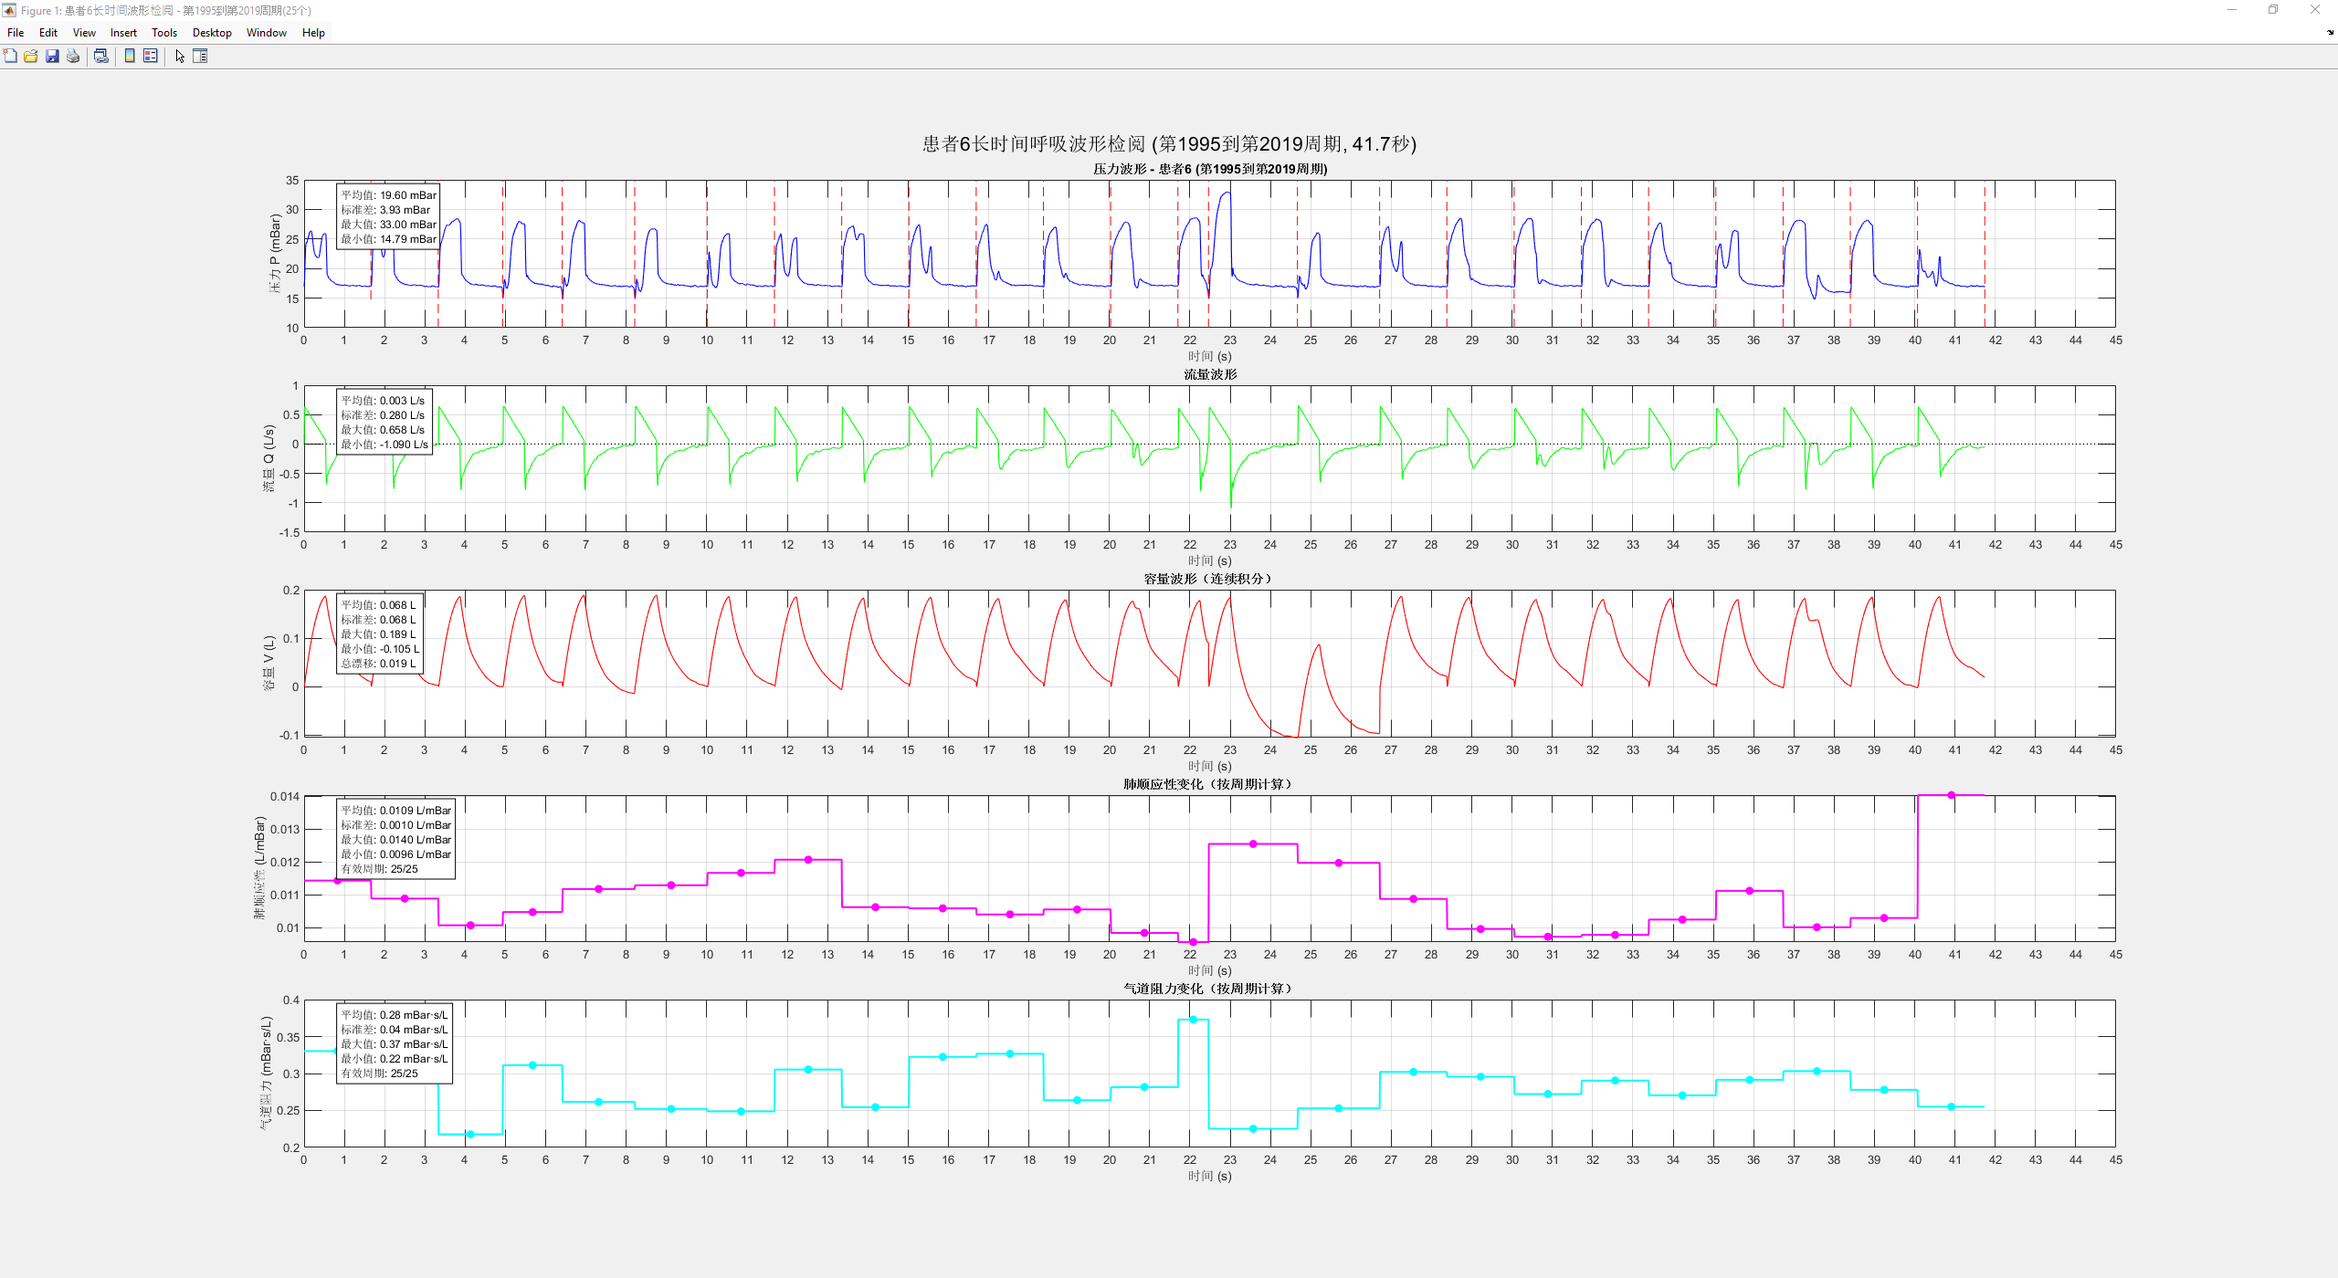
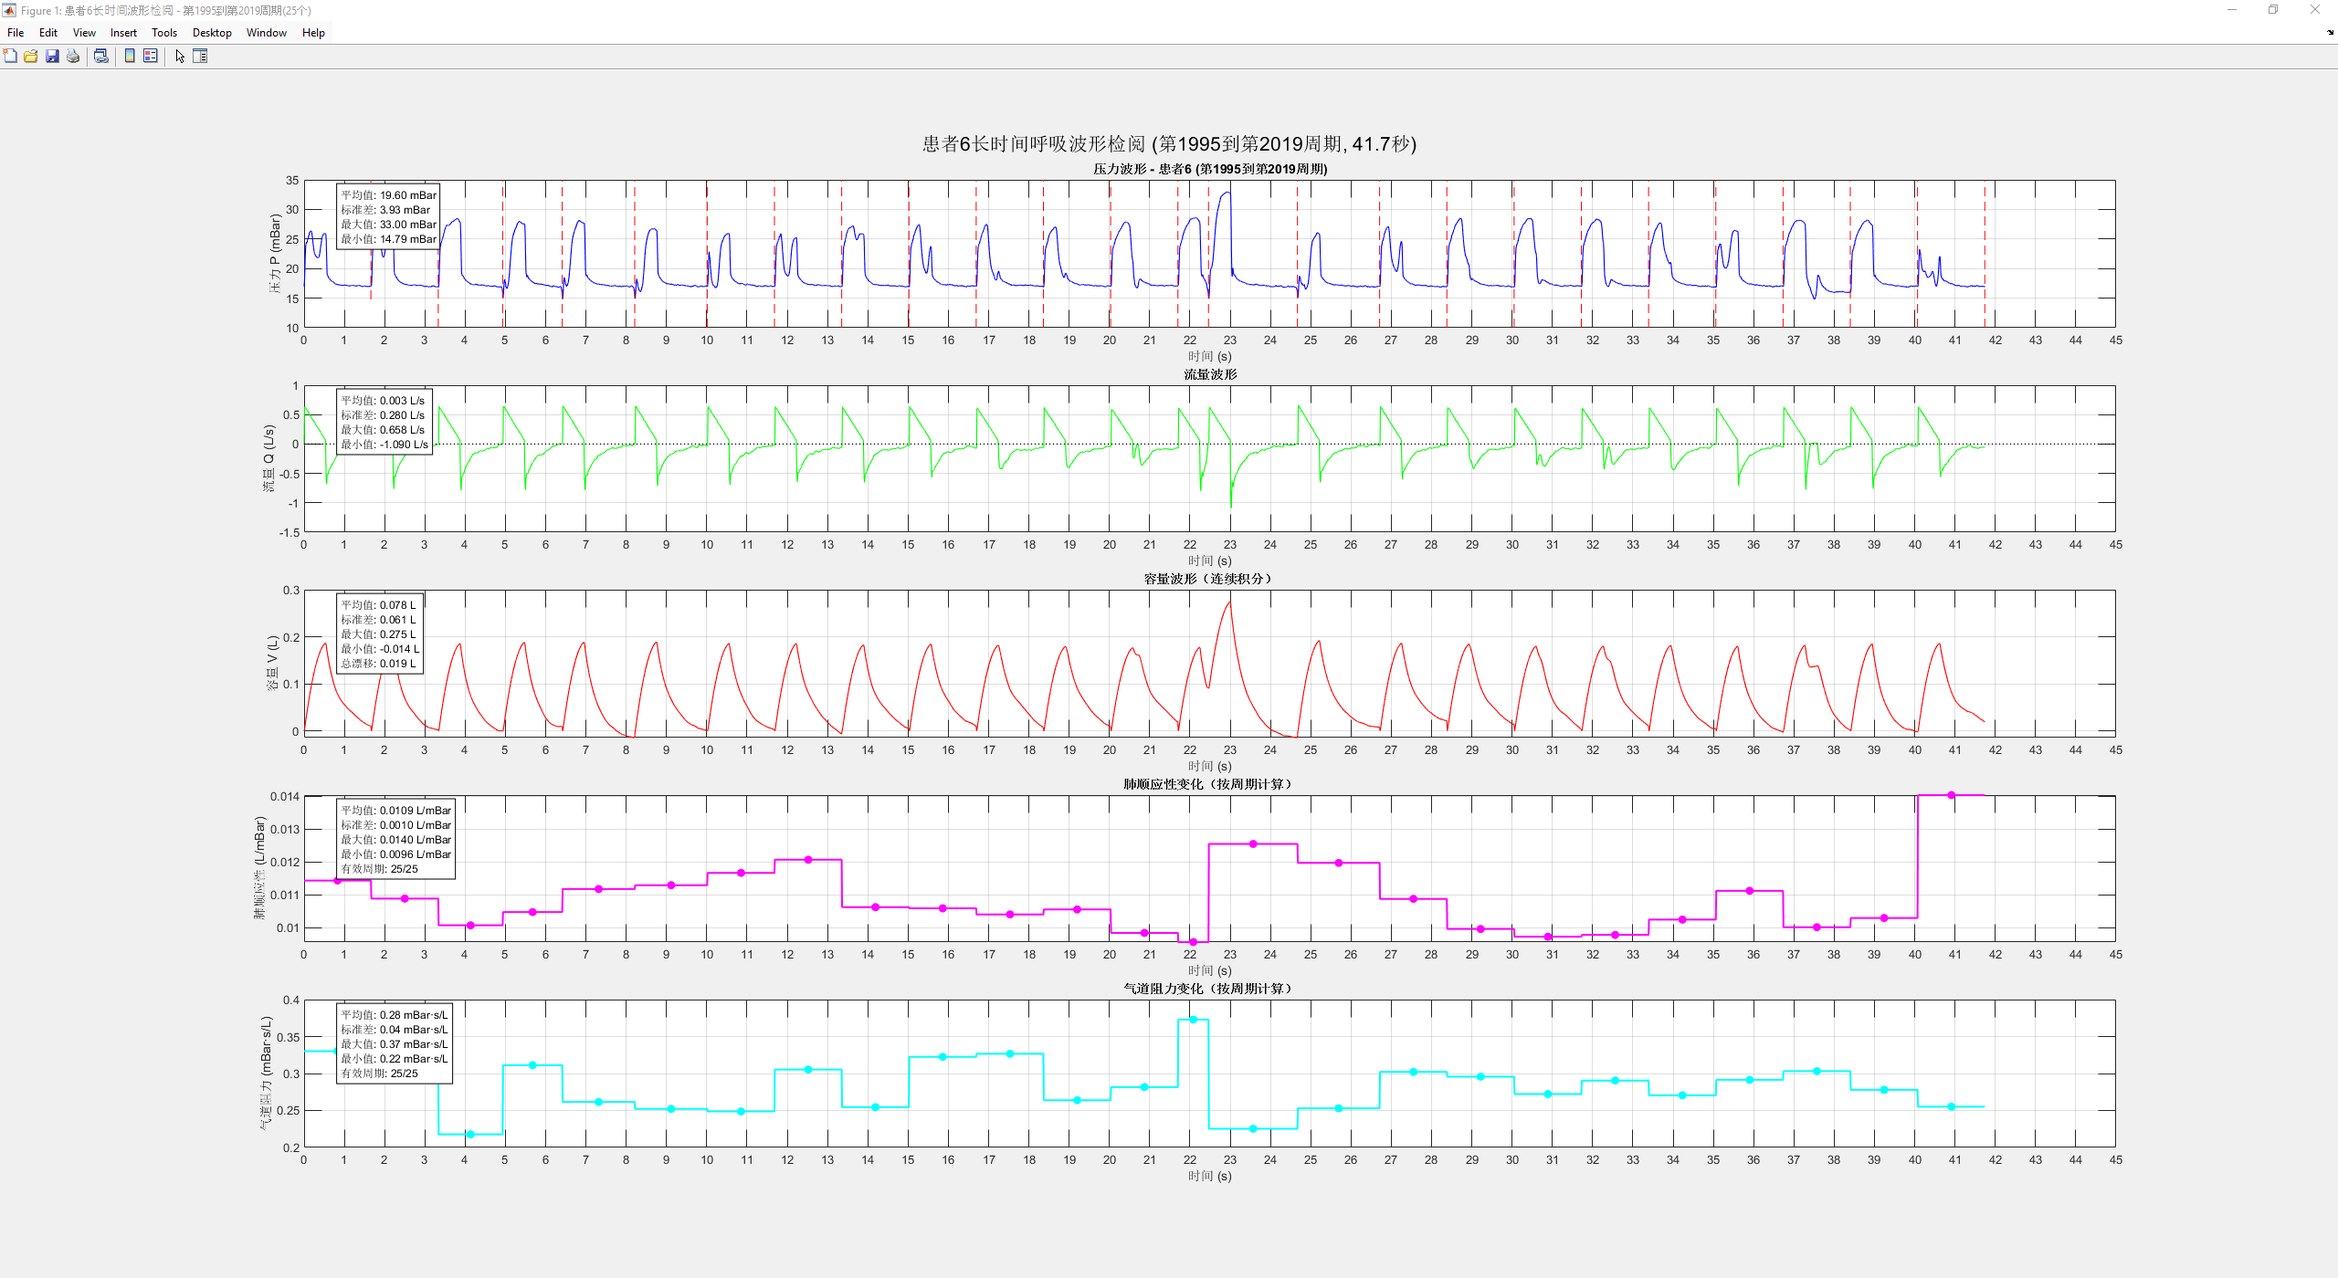
Site updated: 2025-06-19 19:36:18

Changed region(s): [[0.125, 0.4914, 0.8438, 0.5836]]

diff --git a/2025/06/19/工作记录：Patient-7-特征/index.html b/2025/06/19/工作记录：Patient-7-特征/index.html
@@ -13,7 +13,7 @@
 
 
 
-<title>工作记录：Patient 6 特征 | Yartin</title>
+<title>工作记录：Patient 7 特征 | Yartin</title>
 
 
 
@@ -203,7 +203,7 @@
     
     <article class="post-wrap">
         <header class="post-header">
-            <h1 class="post-title">工作记录：Patient 6 特征</h1>
+            <h1 class="post-title">工作记录：Patient 7 特征</h1>
             
                 <div class="post-meta">
                     
@@ -212,7 +212,7 @@
 
                     
                         <span class="post-time">
-                        Date: <a href="#">June 19, 2025&nbsp;&nbsp;9:35:23</a>
+                        Date: <a href="#">June 19, 2025&nbsp;&nbsp;18:17:00</a>
                         </span>
                     
                     
@@ -230,31 +230,30 @@
         </header>
 
         <div class="post-content">
-            <blockquote>
-<p>前述章节插图中容量与流量单位有误，仅作趋势上的特征分析。从本节开始单位错误已修复。</p>
-</blockquote>
-<h2 id="呼吸机控制通气模式"><a href="#呼吸机控制通气模式" class="headerlink" title="呼吸机控制通气模式"></a>呼吸机控制通气模式</h2><p>PC-SIMV</p>
+            <h2 id="呼吸机控制通气模式"><a href="#呼吸机控制通气模式" class="headerlink" title="呼吸机控制通气模式"></a>呼吸机控制通气模式</h2><p>SPN-CPAP</p>
 <hr>
-<h2 id="ASYNC-特征"><a href="#ASYNC-特征" class="headerlink" title="ASYNC 特征"></a>ASYNC 特征</h2><p>常见模式特征与 <a href="../2025/06/17/%E5%B7%A5%E4%BD%9C%E8%AE%B0%E5%BD%95%EF%BC%9APatient-4-%E7%89%B9%E5%BE%81/">Patient 4</a> 特征完全一致，不再重复说明。<br>典型波形如下：</p>
+<h2 id="ASYNC-特征"><a href="#ASYNC-特征" class="headerlink" title="ASYNC 特征"></a>ASYNC 特征</h2><p>虽标记为 SPN-CPAP 模式，但实际患者自主呼吸状态不佳，不稳定，从波形角度看，应当是从 VC 模式调整为 SPN 模式关注患者状态，但效果不佳后重新调整为 PC 模式。</p>
+<p>常见呼气末期对抗和双重触发等与 <a href="../../../06/16/%E5%B7%A5%E4%BD%9C%E8%AE%B0%E5%BD%95%EF%BC%9APatient-1-%E7%89%B9%E5%BE%81/#%E5%A4%9A%E9%87%8D%E8%A7%A6%E5%8F%91">Patient 1</a> 特征一致。</p>
 <hr>
-<h3 id="自主呼吸吸气段异常"><a href="#自主呼吸吸气段异常" class="headerlink" title="自主呼吸吸气段异常"></a>自主呼吸吸气段异常</h3><p><img src="/2025/06/19/%E5%B7%A5%E4%BD%9C%E8%AE%B0%E5%BD%95%EF%BC%9APatient-6-%E7%89%B9%E5%BE%81/%E8%87%AA%E4%B8%BB%E5%91%BC%E5%90%B8%E5%90%B8%E6%B0%94%E6%AE%B5%E5%BC%82%E5%B8%B81.png"><br><img src="/2025/06/19/%E5%B7%A5%E4%BD%9C%E8%AE%B0%E5%BD%95%EF%BC%9APatient-6-%E7%89%B9%E5%BE%81/%E8%87%AA%E4%B8%BB%E5%91%BC%E5%90%B8%E5%90%B8%E6%B0%94%E6%AE%B5%E5%BC%82%E5%B8%B82.png"></p>
-<h3 id="浅快呼吸"><a href="#浅快呼吸" class="headerlink" title="浅快呼吸"></a>浅快呼吸</h3><p><img src="/2025/06/19/%E5%B7%A5%E4%BD%9C%E8%AE%B0%E5%BD%95%EF%BC%9APatient-6-%E7%89%B9%E5%BE%81/%E6%B5%85%E5%BF%AB%E5%91%BC%E5%90%B8.png"></p>
+<h2 id="容量控制段"><a href="#容量控制段" class="headerlink" title="容量控制段"></a>容量控制段</h2><h3 id="吸气呼气转换期对抗"><a href="#吸气呼气转换期对抗" class="headerlink" title="吸气呼气转换期对抗"></a>吸气呼气转换期对抗</h3><p><img src="/2025/06/19/%E5%B7%A5%E4%BD%9C%E8%AE%B0%E5%BD%95%EF%BC%9APatient-7-%E7%89%B9%E5%BE%81/%E5%91%BC%E6%B0%94%E5%88%9D%E6%9C%9FPC.png"></p>
+<p><img src="/2025/06/19/%E5%B7%A5%E4%BD%9C%E8%AE%B0%E5%BD%95%EF%BC%9APatient-7-%E7%89%B9%E5%BE%81/%E5%91%BC%E6%B0%94%E5%88%9D%E6%9C%9FPC2.png"></p>
+<p><img src="/2025/06/19/%E5%B7%A5%E4%BD%9C%E8%AE%B0%E5%BD%95%EF%BC%9APatient-7-%E7%89%B9%E5%BE%81/%E6%B7%B7%E5%90%88%E7%89%B9%E5%BE%81.png"></p>
+<p>不同于 Patient 1 多发于呼气期中后端的自主呼吸对抗（患者吸气努力）。<br>该模式发生在平台压时期。容量控制时吸气达到设定值后呼吸机停止送气，但吸气时间未满，于是维持平台压不变，流量趋近于0，随后呼气阀打开，患者进入呼气阶段。平台压阶段表现为患者吸气后屏住一小段时间。但该患者表现为平台压时期压力异常、快速上升，伴随可能的流量波动，同时造成吸气呼气相识别困难。</p>
+<p>特征：</p>
+<ol>
+<li>平台压时期压力迅速上升，幅值与速率均大于吸气初段。</li>
+<li>流量波形表现不一，可能为小幅呼出后迅速吸入，波动明显，可能为低速呼出一小段。整体表现为在原本平台压维持阶段出现压力上升但流量倾向于呼出的状态。</li>
+<li>容量小幅下降(或下降后回升)，后进入正常呼气阶段。</li>
+<li>PV-loop中吸气末端压力迅速上升后下降，过程中容量变化不大，由于此段压力上升而容量下降，易使得PV-loop在此处交叉。</li>
+</ol>
+<p>*<em>可能是患者呼气努力与呼吸机冲突？由于未到呼气阶段呼吸机呼气阀未打开，患者产生呼气努力后呼气流量难以变化，故压力瞬时快速上升，对抗剧烈时可能导致流量呈现负值，随后开始正常呼气？</em></p>
+<h3 id="容量控制段ASYNC"><a href="#容量控制段ASYNC" class="headerlink" title="容量控制段ASYNC"></a>容量控制段ASYNC</h3><p><img src="/2025/06/19/%E5%B7%A5%E4%BD%9C%E8%AE%B0%E5%BD%95%EF%BC%9APatient-7-%E7%89%B9%E5%BE%81/%E6%8E%A7%E5%88%B6%E9%80%9A%E6%B0%94%E6%AE%B5ASNYC.png"></p>
+<h2 id="自主呼吸段"><a href="#自主呼吸段" class="headerlink" title="自主呼吸段"></a>自主呼吸段</h2><p>此段呼吸速率不稳定，压力、潮气量、流速均不稳定，表现较杂乱，可能由患者主导。</p>
+<p><img src="/2025/06/19/%E5%B7%A5%E4%BD%9C%E8%AE%B0%E5%BD%95%EF%BC%9APatient-7-%E7%89%B9%E5%BE%81/%E5%85%A8%E8%87%AA%E4%B8%BB%E5%91%BC%E5%90%B8.png"></p>
+<h2 id="压力控制段"><a href="#压力控制段" class="headerlink" title="压力控制段"></a>压力控制段</h2><p><img src="/2025/06/19/%E5%B7%A5%E4%BD%9C%E8%AE%B0%E5%BD%95%EF%BC%9APatient-7-%E7%89%B9%E5%BE%81/%E5%8E%8B%E5%8A%9B%E6%8E%A7%E5%88%B6.png"></p>
 <hr>
-<h3 id="控制通气吸气段对抗"><a href="#控制通气吸气段对抗" class="headerlink" title="控制通气吸气段对抗"></a>控制通气吸气段对抗</h3><p><img src="/2025/06/19/%E5%B7%A5%E4%BD%9C%E8%AE%B0%E5%BD%95%EF%BC%9APatient-6-%E7%89%B9%E5%BE%81/%E6%8E%A7%E5%88%B6%E9%80%9A%E6%B0%94%E5%90%B8%E6%B0%94%E6%AE%B5%E5%AF%B9%E6%8A%97.png"></p>
-<h3 id="反向触发"><a href="#反向触发" class="headerlink" title="反向触发"></a>反向触发</h3><p>反向触发可能发生在吸气段早、中、晚阶段，PV-loop差异较明显</p>
-<p><img src="/2025/06/19/%E5%B7%A5%E4%BD%9C%E8%AE%B0%E5%BD%95%EF%BC%9APatient-6-%E7%89%B9%E5%BE%81/RT%E6%97%A9.png"></p>
-<p><img src="/2025/06/19/%E5%B7%A5%E4%BD%9C%E8%AE%B0%E5%BD%95%EF%BC%9APatient-6-%E7%89%B9%E5%BE%81/RT%E4%B8%AD.png"></p>
-<p><img src="/2025/06/19/%E5%B7%A5%E4%BD%9C%E8%AE%B0%E5%BD%95%EF%BC%9APatient-6-%E7%89%B9%E5%BE%81/RT%E6%99%9A.png"></p>
-<hr>
-<h3 id="呼气段自主呼吸触发"><a href="#呼气段自主呼吸触发" class="headerlink" title="呼气段自主呼吸触发"></a>呼气段自主呼吸触发</h3><p><img src="/2025/06/19/%E5%B7%A5%E4%BD%9C%E8%AE%B0%E5%BD%95%EF%BC%9APatient-6-%E7%89%B9%E5%BE%81/%E5%A4%9A%E9%87%8D%E8%A7%A6%E5%8F%91.png"><br><img src="/2025/06/19/%E5%B7%A5%E4%BD%9C%E8%AE%B0%E5%BD%95%EF%BC%9APatient-6-%E7%89%B9%E5%BE%81/%E8%A7%A6%E5%8F%91%E5%A4%B1%E8%B4%A5.png"></p>
-<hr>
-<h2 id="特殊情况"><a href="#特殊情况" class="headerlink" title="特殊情况"></a>特殊情况</h2><h3 id="呼气期末期压力下降并回升"><a href="#呼气期末期压力下降并回升" class="headerlink" title="呼气期末期压力下降并回升"></a>呼气期末期压力下降并回升</h3><p>描述：呼气末期压力显著低于PEEP，随后重新回升至PEEP，但并未成功触发呼吸机下一次送气，且流量波形无明显异常。发生概率较低，病人5000个呼吸周期约产生2~3次，可能与呼吸机设置有关。</p>
-<p><img src="/2025/06/19/%E5%B7%A5%E4%BD%9C%E8%AE%B0%E5%BD%95%EF%BC%9APatient-6-%E7%89%B9%E5%BE%81/%E5%91%BC%E6%B0%94%E6%9C%AB%E5%8E%8B%E5%8A%9B%E4%B8%8B%E9%99%8D.png"></p>
-<h3 id="杂乱呼吸"><a href="#杂乱呼吸" class="headerlink" title="杂乱呼吸"></a>杂乱呼吸</h3><p>描述：压力流量波形快速变化无明显特征，吸气呼气区分不明显，咳嗽？卡痰？呼吸机管路异物？漏气？原因不明。</p>
-<p><img src="/2025/06/19/%E5%B7%A5%E4%BD%9C%E8%AE%B0%E5%BD%95%EF%BC%9APatient-6-%E7%89%B9%E5%BE%81/%E6%9D%82%E4%B9%B1%E5%91%BC%E5%90%B8.png"></p>
-<hr>
-<h2 id="混合-ASYNC"><a href="#混合-ASYNC" class="headerlink" title="混合 ASYNC"></a>混合 ASYNC</h2><p><img src="/2025/06/19/%E5%B7%A5%E4%BD%9C%E8%AE%B0%E5%BD%95%EF%BC%9APatient-6-%E7%89%B9%E5%BE%81/%E6%B7%B7%E5%90%88ASYNC1.png"></p>
-<p><img src="/2025/06/19/%E5%B7%A5%E4%BD%9C%E8%AE%B0%E5%BD%95%EF%BC%9APatient-6-%E7%89%B9%E5%BE%81/%E6%B7%B7%E5%90%88ASYNC2.png"></p>
+<h2 id="明显异常"><a href="#明显异常" class="headerlink" title="明显异常"></a>明显异常</h2><p>原因未知，可能呼吸机未连接或管路问题。</p>
+<p><img src="/2025/06/19/%E5%B7%A5%E4%BD%9C%E8%AE%B0%E5%BD%95%EF%BC%9APatient-7-%E7%89%B9%E5%BE%81/%E6%98%8E%E6%98%BE%E5%BC%82%E5%B8%B8.png"></p>
 
         </div>
 
@@ -278,10 +277,8 @@
         </section>
         <section class="post-nav">
             
-                <a class="prev" rel="prev" href="/2025/06/19/%E5%B7%A5%E4%BD%9C%E8%AE%B0%E5%BD%95%EF%BC%9APatient-7-%E7%89%B9%E5%BE%81/">工作记录：Patient 7 特征</a>
             
-            
-            <a class="next" rel="next" href="/2025/06/18/%E5%B7%A5%E4%BD%9C%E8%AE%B0%E5%BD%95%EF%BC%9APatient-5-%E7%89%B9%E5%BE%81/">工作记录：Patient 5 特征</a>
+            <a class="next" rel="next" href="/2025/06/19/%E5%B7%A5%E4%BD%9C%E8%AE%B0%E5%BD%95%EF%BC%9APatient-6-%E7%89%B9%E5%BE%81/">工作记录：Patient 6 特征</a>
             
         </section> -->
 

diff --git a/category/index.html b/category/index.html
@@ -247,7 +247,7 @@
                                         <div class="subcategory-item" style="margin-bottom: 8px;">
                                             <a href="/categories/%E6%91%B8%E9%B1%BC%E7%9A%84%E9%97%B4%E9%9A%99%E6%80%BB%E8%BF%98%E6%98%AF%E8%A6%81%E5%B7%A5%E4%BD%9C/%E6%95%B0%E6%8D%AE%E5%AE%A1%E9%98%85/" style="font-size: 1em; color: #000000;">
                                                 <i class="iconfont icon-category" style="padding-right:3px; font-size: 0.8em;"></i>
-                                                数据审阅 (6)
+                                                数据审阅 (7)
                                             </a>
                                         </div>
                                     

diff --git a/archives/2025/06/index.html b/archives/2025/06/index.html
@@ -141,6 +141,15 @@
         
 
         <article class="archive-item">
+            <a class="archive-item-link" href="/2025/06/19/%E5%B7%A5%E4%BD%9C%E8%AE%B0%E5%BD%95%EF%BC%9APatient-7-%E7%89%B9%E5%BE%81/">工作记录：Patient 7 特征</a>
+            <span class="archive-item-date">June 19, 2025</span>
+        </article>
+    
+        
+
+        
+
+        <article class="archive-item">
             <a class="archive-item-link" href="/2025/06/19/%E5%B7%A5%E4%BD%9C%E8%AE%B0%E5%BD%95%EF%BC%9APatient-6-%E7%89%B9%E5%BE%81/">工作记录：Patient 6 特征</a>
             <span class="archive-item-date">June 19, 2025</span>
         </article>

diff --git a/archives/2025/index.html b/archives/2025/index.html
@@ -141,6 +141,15 @@
         
 
         <article class="archive-item">
+            <a class="archive-item-link" href="/2025/06/19/%E5%B7%A5%E4%BD%9C%E8%AE%B0%E5%BD%95%EF%BC%9APatient-7-%E7%89%B9%E5%BE%81/">工作记录：Patient 7 特征</a>
+            <span class="archive-item-date">June 19, 2025</span>
+        </article>
+    
+        
+
+        
+
+        <article class="archive-item">
             <a class="archive-item-link" href="/2025/06/19/%E5%B7%A5%E4%BD%9C%E8%AE%B0%E5%BD%95%EF%BC%9APatient-6-%E7%89%B9%E5%BE%81/">工作记录：Patient 6 特征</a>
             <span class="archive-item-date">June 19, 2025</span>
         </article>

diff --git a/archives/index.html b/archives/index.html
@@ -141,6 +141,15 @@
         
 
         <article class="archive-item">
+            <a class="archive-item-link" href="/2025/06/19/%E5%B7%A5%E4%BD%9C%E8%AE%B0%E5%BD%95%EF%BC%9APatient-7-%E7%89%B9%E5%BE%81/">工作记录：Patient 7 特征</a>
+            <span class="archive-item-date">June 19, 2025</span>
+        </article>
+    
+        
+
+        
+
+        <article class="archive-item">
             <a class="archive-item-link" href="/2025/06/19/%E5%B7%A5%E4%BD%9C%E8%AE%B0%E5%BD%95%EF%BC%9APatient-6-%E7%89%B9%E5%BE%81/">工作记录：Patient 6 特征</a>
             <span class="archive-item-date">June 19, 2025</span>
         </article>

diff --git a/categories/摸鱼的间隙总还是要工作/数据审阅/index.html b/categories/摸鱼的间隙总还是要工作/数据审阅/index.html
@@ -153,6 +153,15 @@
         
 
         <article class="archive-item">
+            <a class="archive-item-link" href="/2025/06/19/%E5%B7%A5%E4%BD%9C%E8%AE%B0%E5%BD%95%EF%BC%9APatient-7-%E7%89%B9%E5%BE%81/">工作记录：Patient 7 特征</a>
+            <span class="archive-item-date">June 19, 2025</span>
+        </article>
+    
+        
+
+        
+
+        <article class="archive-item">
             <a class="archive-item-link" href="/2025/06/19/%E5%B7%A5%E4%BD%9C%E8%AE%B0%E5%BD%95%EF%BC%9APatient-6-%E7%89%B9%E5%BE%81/">工作记录：Patient 6 特征</a>
             <span class="archive-item-date">June 19, 2025</span>
         </article>

diff --git a/tags/工作记录/index.html b/tags/工作记录/index.html
@@ -148,6 +148,15 @@
         
 
         <article class="archive-item">
+            <a class="archive-item-link" href="/2025/06/19/%E5%B7%A5%E4%BD%9C%E8%AE%B0%E5%BD%95%EF%BC%9APatient-7-%E7%89%B9%E5%BE%81/">工作记录：Patient 7 特征</a>
+            <span class="archive-item-date">June 19, 2025</span>
+        </article>
+    
+        
+
+        
+
+        <article class="archive-item">
             <a class="archive-item-link" href="/2025/06/19/%E5%B7%A5%E4%BD%9C%E8%AE%B0%E5%BD%95%EF%BC%9APatient-6-%E7%89%B9%E5%BE%81/">工作记录：Patient 6 特征</a>
             <span class="archive-item-date">June 19, 2025</span>
         </article>

diff --git a/categories/摸鱼的间隙总还是要工作/index.html b/categories/摸鱼的间隙总还是要工作/index.html
@@ -195,6 +195,8 @@
                                 
                                     
                                 
+                                    
+                                
                                 
                                     <a class="more-post-link" href="/categories/%E6%91%B8%E9%B1%BC%E7%9A%84%E9%97%B4%E9%9A%99%E6%80%BB%E8%BF%98%E6%98%AF%E8%A6%81%E5%B7%A5%E4%BD%9C/%E6%95%B0%E6%8D%AE%E5%AE%A1%E9%98%85/">More >></a>
                                 

diff --git a/tag/index.html b/tag/index.html
@@ -145,7 +145,7 @@
                 
                     <a href="/tags/%E8%AF%97%E8%AF%8D/">诗词<small>(2)</small></a>
                 
-                    <a href="/tags/%E5%B7%A5%E4%BD%9C%E8%AE%B0%E5%BD%95/">工作记录<small>(6)</small></a>
+                    <a href="/tags/%E5%B7%A5%E4%BD%9C%E8%AE%B0%E5%BD%95/">工作记录<small>(7)</small></a>
                 
                     <a href="/tags/%E8%AF%AD%E5%BD%95/">语录<small>(1)</small></a>
                 
